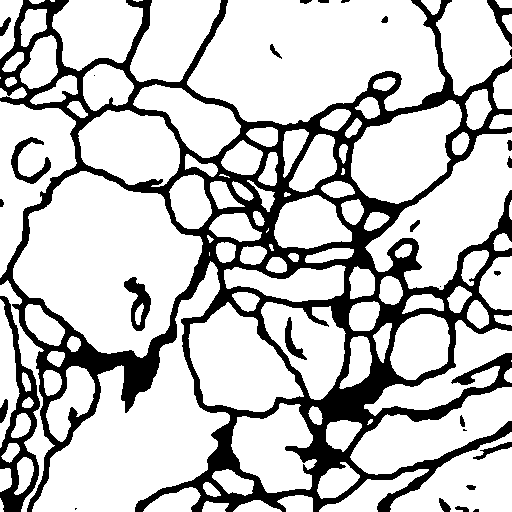
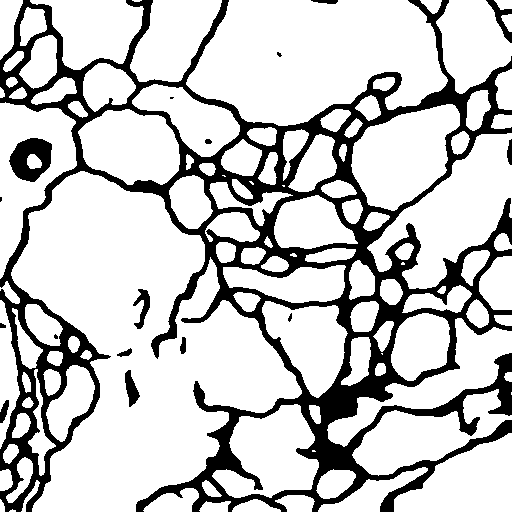
augmentation

diff --git a/main.py b/main.py
@@ -24,7 +24,7 @@ transform = transforms.Compose([transforms.ToTensor()])
 # define the path of data set
 predict_test_dir = 'dataset/predict_test/'
 train_img_dir = 'dataset/train_img/'
-test__img_dir = 'dataset/test_img/'
+test_img_dir = 'dataset/test_img/'
 train_label_dir = 'dataset/train_label/'
 test_label_dir = 'dataset/test_label/'
 
@@ -77,20 +77,29 @@ def evl(image_path, label_path):
 
 
 # evaluate all test images
-def evl_all(umodel):
+def evl_all(umodel, aug=False):
     # define test dataset
-    test_set = ISBIDataset(test__img_dir, test_label_dir, transforms=transform)
+    test_set = ISBIDataset(test_img_dir,
+                           test_label_dir,
+                           transforms=transform,
+                           aug=aug)
     loader = DataLoader(test_set, batch_size=1, shuffle=False)
     vrand_list = []
     vinfo_list = []
     #predict
+
     for index, (img, label) in enumerate(loader):
         predict_img = umodel.predict(img[0])
         predict_img_name = predict_test_dir + str(index) + '.png'
+
         label_img_name = test_label_dir + str(index) + '.png'
 
         predict_img = predict_img * 255
-        outputImg = Image.fromarray(predict_img)
+        # ignore edge
+        if (aug == True):
+            outputImg = predict_img[32:predict_img.shape[0] - 32,
+                                    32:predict_img.shape[0] - 32]
+        outputImg = Image.fromarray(outputImg)
 
         outputImg = outputImg.convert('L')
         outputImg.save(predict_img_name)
@@ -103,11 +112,12 @@ def evl_all(umodel):
 
 
 # train function, batch_size, # epoch, learning rate can be adjusted.
-def train(batch_size, n_epochs, learning_rate):
+def train(batch_size, n_epochs, learning_rate, aug):
     #define train dataset
     train_set = ISBIDataset(train_img_dir,
                             train_label_dir,
-                            transforms=transform)
+                            transforms=transform,
+                            aug=aug)
     #define model
     umodel = Unet()
     umodel.cuda()
@@ -140,7 +150,7 @@ def train(batch_size, n_epochs, learning_rate):
 
             loss.backward()
             optimizer.step()
-        vrand, vinfo = evl_all(umodel)
+        vrand, vinfo = evl_all(umodel, aug)
         # save best model
         if (vrand > 0.98):
             torch.save(umodel.state_dict(), 'model/model.pkl')
@@ -154,22 +164,22 @@ def train(batch_size, n_epochs, learning_rate):
             print(datas)
             csv_file.writerows(datas)
         loss_history.append(running_loss / len(loader))
-    umodel.load_state_dict(torch.load('model/model.pkl'))
-    eval(umodel)
 
 
 if __name__ == '__main__':
     batch_size = 2
     n_epochs = 60
-    learning_rate = 2e-3
+    learning_rate = 1e-3
+    aug = True
     with open("log.csv", "a+", newline='') as file:
         csv_file = csv.writer(file)
         datas = [[
-            'batch_size', batch_size, 'n_epoch', n_epochs, 'learning rate',
-            learning_rate
+            'data augmentation (edges)', 'batch_size', batch_size, 'n_epoch',
+            n_epochs, 'learning rate', learning_rate
         ]]
         print(datas)
         csv_file.writerows(datas)
     train(batch_size=batch_size,
           n_epochs=n_epochs,
-          learning_rate=learning_rate)
+          learning_rate=learning_rate,
+          aug=aug)

diff --git a/ISBIdataset.py b/ISBIdataset.py
@@ -2,16 +2,17 @@ from torch.utils.data import Dataset
 import numpy as np
 from PIL import Image
 import glob
-
+import cv2
 
 class ISBIDataset(Dataset):
     
-    def __init__(self, img_path, label_path, transforms=None):
+    def __init__(self, img_path, label_path, transforms=None, aug=False):
         img_list = sorted(glob.glob(img_path+'*.png'))
         label_list = sorted(glob.glob(label_path+'*.png'))
         self.img = img_list
         self.label = label_list
         self.transforms = transforms
+        self.aug = aug
         
     def __len__(self):
         return len(self.img)
@@ -21,6 +22,13 @@ class ISBIDataset(Dataset):
         img = Image.open(self.img[index]).convert("L")
         label = Image.open(self.label[index]).convert("L")
         
+        img = np.asarray(img)
+        label = np.asarray(label)
+        # data augmentation
+        if(self.aug==True):
+            img = cv2.copyMakeBorder(img,32,32,32,32,cv2.BORDER_REFLECT)
+            label = cv2.copyMakeBorder(label,32,32,32,32,cv2.BORDER_REFLECT)
+
         if self.transforms:
             img = self.transforms(img)
             label = self.transforms(label)

diff --git a/predict_test.py b/predict_test.py
@@ -105,5 +105,6 @@ umodel = Unet()
 umodel = umodel.cuda()
 umodel.load_state_dict(torch.load('model/0.98model.pkl'))
 #%%
-evl_all(umodel)
+vrand, vinfo = evl_all(umodel)
+print('vrand = ', vrand, 'vinfo = ', vinfo)
 #%%

diff --git a/README.md b/README.md
@@ -1,28 +1,34 @@
-# CS420-Course-Rroject
+# CS420-Course-Project
 
 ### File description:
 
---dataset: all the data
+- --`dataset`: all the data
 
---log: training logs
+- --`log`: training logs
 
---model: stored model
+- --`model`: stored model
 
---ISBIdataset.py: dataset class
+- --`ISBIdataset.py`: dataset class
 
---model.py: model class
+- --`model.py`: model class
 
---main.py: main file used for training and testing
+- --`main.py`: main file used for training and testing
+
+- --`predict_test.py`: used for predict test images, predict images are stored in `dataset/predict_test`
 
 ### Quick start:
 
 make sure you have installed all the packages.
 
 ```shell
-python main.py
+python main.py #used for train, parameters can be adjust in main.py file
 ```
 
 The result is stored in the `log.csv` file.
+
+```shell
+python predict_test.py #used for predict test images
+```
 
 ### Performance:
 
@@ -30,10 +36,23 @@ The result is stored in the `log.csv` file.
 | :--: | :----: | :----: | :---------------------------------------: |
 | 6/13 | 0.9820 | 0.9836 | Adjust parameters (Batch size=2, lr=1e-3) |
 | 6/14 | 0.9823 | 0.9837 | Adjust parameters (Batch size=2, lr=2e-3) |
+| 6/16 | 0.9716 | 0.9804 |             Data augmentation             |
 
-### Current works:
+### Work Logs:
 
-2021/6/13: adjust parameters, the best parameters are: batch size = 2, learning rate= 1e-3
+- 2021/6/13: adjust parameters, the best parameters are: batch size = 2, learning rate= 1e-3
+
+- 2021/6/14: adjust parameters
+
+- 2021/6/15: adjust parameters
+
+- 2021/6/16: data augmentation :  Use `cv2.copyMakeBorder()` to do boundary expansion image augmentation
+
+  -------------------------------------------------------------------------------------------------------------------------------------------------------------------------------------
+
+  																		Prepare for the exam, no more experiments.
+
+  -------------------------------------------------------------------------------------------------------------------------------------------------------------------------------------
 
 ### To Do:
 
@@ -41,6 +60,6 @@ The result is stored in the `log.csv` file.
 
 - [x] Parameters adjustment
 
-- [ ] Data argumentation
+- [x] Data argumentation
 
 - [ ] Change loss function
